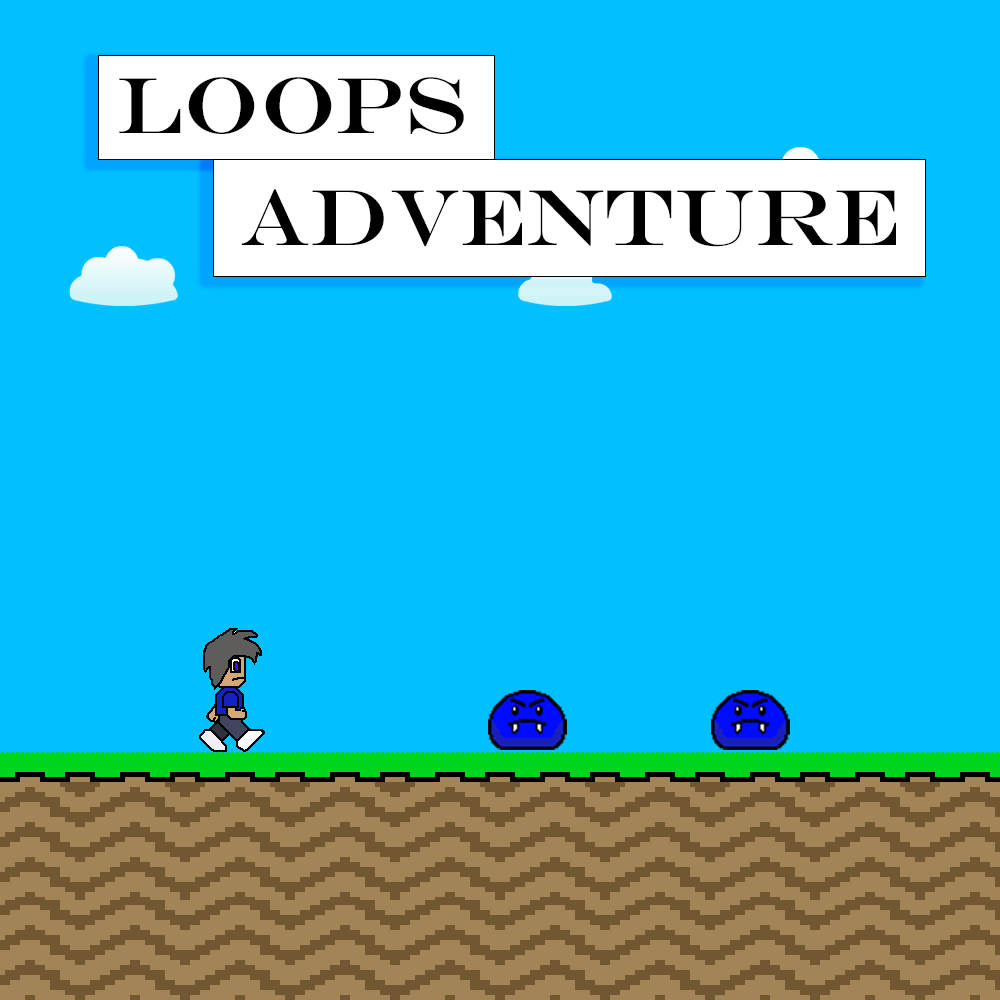
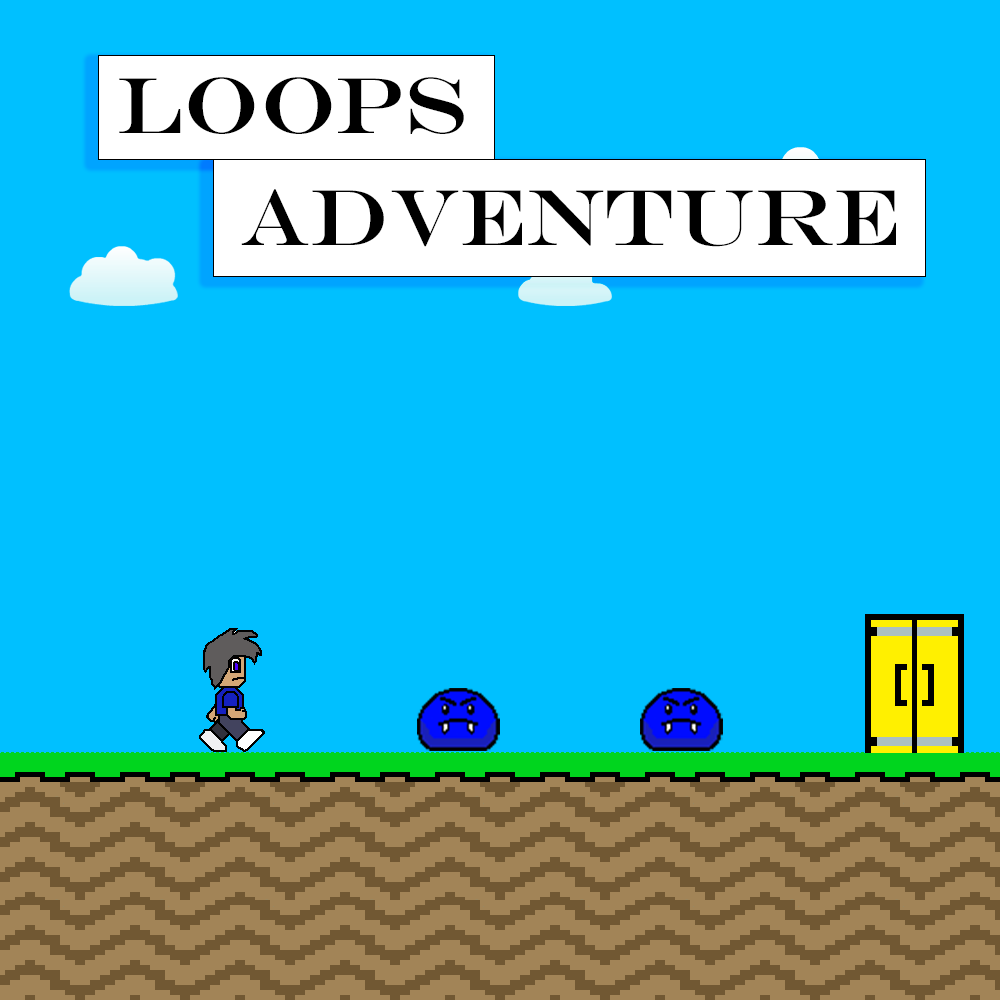
update

Changed region(s): [[0.868, 0.589, 0.961, 0.775], [0.62, 0.682, 0.806, 0.775], [0.403, 0.682, 0.589, 0.775]]

diff --git a/Pygame.py b/Pygame.py
@@ -2,6 +2,8 @@ import pygame
 from pygame.locals import *
 from pygame.sprite import spritecollide
 from pygame.transform import scale
+import pickle
+from os import path
 
 pygame.init()
 
@@ -18,6 +20,8 @@ pygame.display.set_caption('Platformer')
 tile_size = 50
 game_over = 0
 main_menu = True
+level = 1
+max_levels = 2
 
 # Load Images
 sun_img = pygame.image.load('img/sun.png')
@@ -27,6 +31,22 @@ bdr1_img = pygame.image.load('img/bdr1.png')
 restart_img = pygame.image.load('img/restart_btn.png')
 start_img = pygame.image.load('img/start_btn.png')
 exit_img = pygame.image.load('img/exit_btn.png')
+
+# Function to reset level.
+def reset_level(level):
+    player.reset(100, screen_height - 130)
+    blob_group.empty()
+    spikes_group.empty()
+    exit_group.empty()
+
+    # Load in level data and create world.
+    if path.exists(f'level{level}_data'):
+        pickle_in = open(f'level{level}_data', 'rb')
+        world_data = pickle.load(pickle_in)
+    world = World(world_data)
+
+    return world
+
 
 class Button():
     def __init__(self, x, y, image):
@@ -132,6 +152,10 @@ class Player():
             if pygame.sprite.spritecollide(self, spikes_group, False):
                 game_over = -1
 
+            # Check for collision with exit.
+            if pygame.sprite.spritecollide(self, exit_group, False):
+                game_over = 1
+
             # Update player coordinates
             self.rect.x += dx
             self.rect.y += dy
@@ -198,6 +222,15 @@ class World():
                     img_rect.y = row_count * tile_size
                     tile = (img, img_rect)
                     self.tile_list.append(tile)
+                if tile == 3:
+                    blob = Enemy(col_count * tile_size, row_count * tile_size + 15)
+                    blob_group.add(blob)
+                if tile == 6:
+                    spikes = Spikes(col_count * tile_size, row_count * tile_size + (tile_size // 2))
+                    spikes_group.add(spikes)
+                if tile == 8:
+                    exit = Exit(col_count * tile_size, row_count * tile_size - (tile_size // 2))
+                    exit_group.add(exit)
                 if tile == 9:
                     img = pygame.transform.scale(bdr1_img, (tile_size, tile_size))
                     img_rect = img.get_rect()
@@ -205,12 +238,6 @@ class World():
                     img_rect.y = row_count * tile_size
                     tile = (img, img_rect)
                     self.tile_list.append(tile)
-                if tile == 3:
-                    blob = Enemy(col_count * tile_size, row_count * tile_size + 15)
-                    blob_group.add(blob)
-                if tile == 6:
-                    spikes = Spikes(col_count * tile_size, row_count * tile_size + (tile_size // 2))
-                    spikes_group.add(spikes)
                 col_count += 1
             row_count += 1
     
@@ -245,34 +272,26 @@ class Spikes(pygame.sprite.Sprite):
         self.rect.x = x
         self.rect.y = y
 
-world_data = [
-[9, 9, 9, 9, 9, 9, 9, 9, 9, 9, 9, 9, 9, 9, 9, 9, 9, 9, 9, 9], 
-[9, 0, 0, 0, 0, 0, 0, 0, 0, 0, 0, 0, 0, 0, 0, 0, 0, 0, 0, 9], 
-[9, 0, 0, 0, 0, 7, 0, 0, 0, 0, 0, 0, 0, 0, 0, 0, 0, 0, 8, 9], 
-[9, 0, 0, 0, 0, 2, 0, 0, 0, 0, 0, 7, 0, 0, 0, 0, 0, 2, 2, 9], 
-[9, 0, 0, 0, 0, 0, 0, 0, 0, 0, 2, 2, 0, 7, 0, 5, 0, 0, 0, 9], 
-[9, 0, 0, 0, 0, 0, 0, 0, 5, 0, 0, 0, 2, 2, 0, 0, 0, 0, 0, 9], 
-[9, 7, 0, 0, 2, 2, 2, 0, 0, 0, 0, 0, 0, 0, 0, 0, 0, 0, 0, 9], 
-[9, 2, 0, 0, 0, 0, 0, 0, 0, 0, 0, 0, 0, 0, 0, 0, 0, 0, 0, 9], 
-[9, 0, 0, 0, 0, 0, 0, 0, 0, 0, 0, 7, 0, 0, 7, 0, 0, 0, 0, 9], 
-[9, 0, 2, 0, 0, 7, 0, 7, 0, 0, 0, 0, 0, 0, 0, 0, 0, 0, 0, 9], 
-[9, 0, 0, 2, 0, 0, 4, 0, 0, 0, 0, 3, 0, 0, 3, 0, 0, 0, 0, 9], 
-[9, 0, 0, 0, 0, 0, 0, 0, 0, 2, 2, 2, 2, 2, 2, 2, 2, 0, 0, 9], 
-[9, 0, 0, 0, 0, 0, 0, 0, 0, 0, 0, 0, 0, 0, 0, 0, 0, 0, 0, 9], 
-[9, 0, 0, 0, 0, 0, 0, 0, 0, 0, 7, 0, 7, 0, 0, 0, 0, 0, 2, 9], 
-[9, 0, 0, 0, 0, 0, 0, 0, 0, 0, 0, 0, 0, 0, 0, 0, 0, 0, 0, 9], 
-[9, 0, 0, 0, 0, 0, 0, 0, 0, 0, 2, 0, 2, 0, 2, 2, 2, 2, 2, 2], 
-[9, 0, 0, 0, 0, 0, 2, 2, 2, 6, 6, 6, 6, 6, 1, 1, 1, 1, 1, 1], 
-[9, 0, 0, 0, 0, 2, 1, 1, 1, 1, 1, 1, 1, 1, 1, 1, 1, 1, 1, 1], 
-[9, 0, 0, 0, 2, 1, 1, 1, 1, 1, 1, 1, 1, 1, 1, 1, 1, 1, 1, 1], 
-[2, 2, 2, 2, 1, 1, 1, 1, 1, 1, 1, 1, 1, 1, 1, 1, 1, 1, 1, 1]
-]
+class Exit(pygame.sprite.Sprite):
+    def __init__(self, x, y):
+        pygame.sprite.Sprite.__init__(self)
+        img = pygame.image.load('img/exit_door.png')
+        self.image = pygame.transform.scale(img, (tile_size, int(tile_size * 1.5)))
+        self.rect = self.image.get_rect()
+        self.rect.x = x
+        self.rect.y = y
+
 
 player = Player(100, screen_height - 130)
 
-spikes_group = pygame.sprite.Group()
 blob_group = pygame.sprite.Group()
+spikes_group = pygame.sprite.Group()
+exit_group = pygame.sprite.Group()
 
+# Load in level data and create world.
+if path.exists(f'level{level}_data'):
+    pickle_in = open(f'level{level}_data', 'rb')
+    world_data = pickle.load(pickle_in)
 world = World(world_data)
 
 # Create buttons.
@@ -299,14 +318,34 @@ while run == True:
 
         blob_group.draw(screen)
         spikes_group.draw(screen)
+        exit_group.draw(screen)
         
         game_over = player.update(game_over)
 
         # If player has died
         if game_over == -1:
             if restart_button.draw():
-                player.reset(100, screen_height - 130)
+                world_data = []
+                world = reset_level(level)
                 game_over = 0
+        
+        # If player has completed the level.
+        if game_over == 1:
+            # Reset game and go to next level.
+            level += 1
+            if level <= max_levels:
+                # Reset level.
+                world_data = []
+                world = reset_level(level)
+                game_over = 0
+            else:
+                # Restart game.
+                if restart_button.draw():
+                    level = 1
+                    # Reset level.
+                    world_data = []
+                    world = reset_level(level)
+                    game_over = 0
 
     for event in pygame.event.get():
         if event.type == pygame.QUIT:
